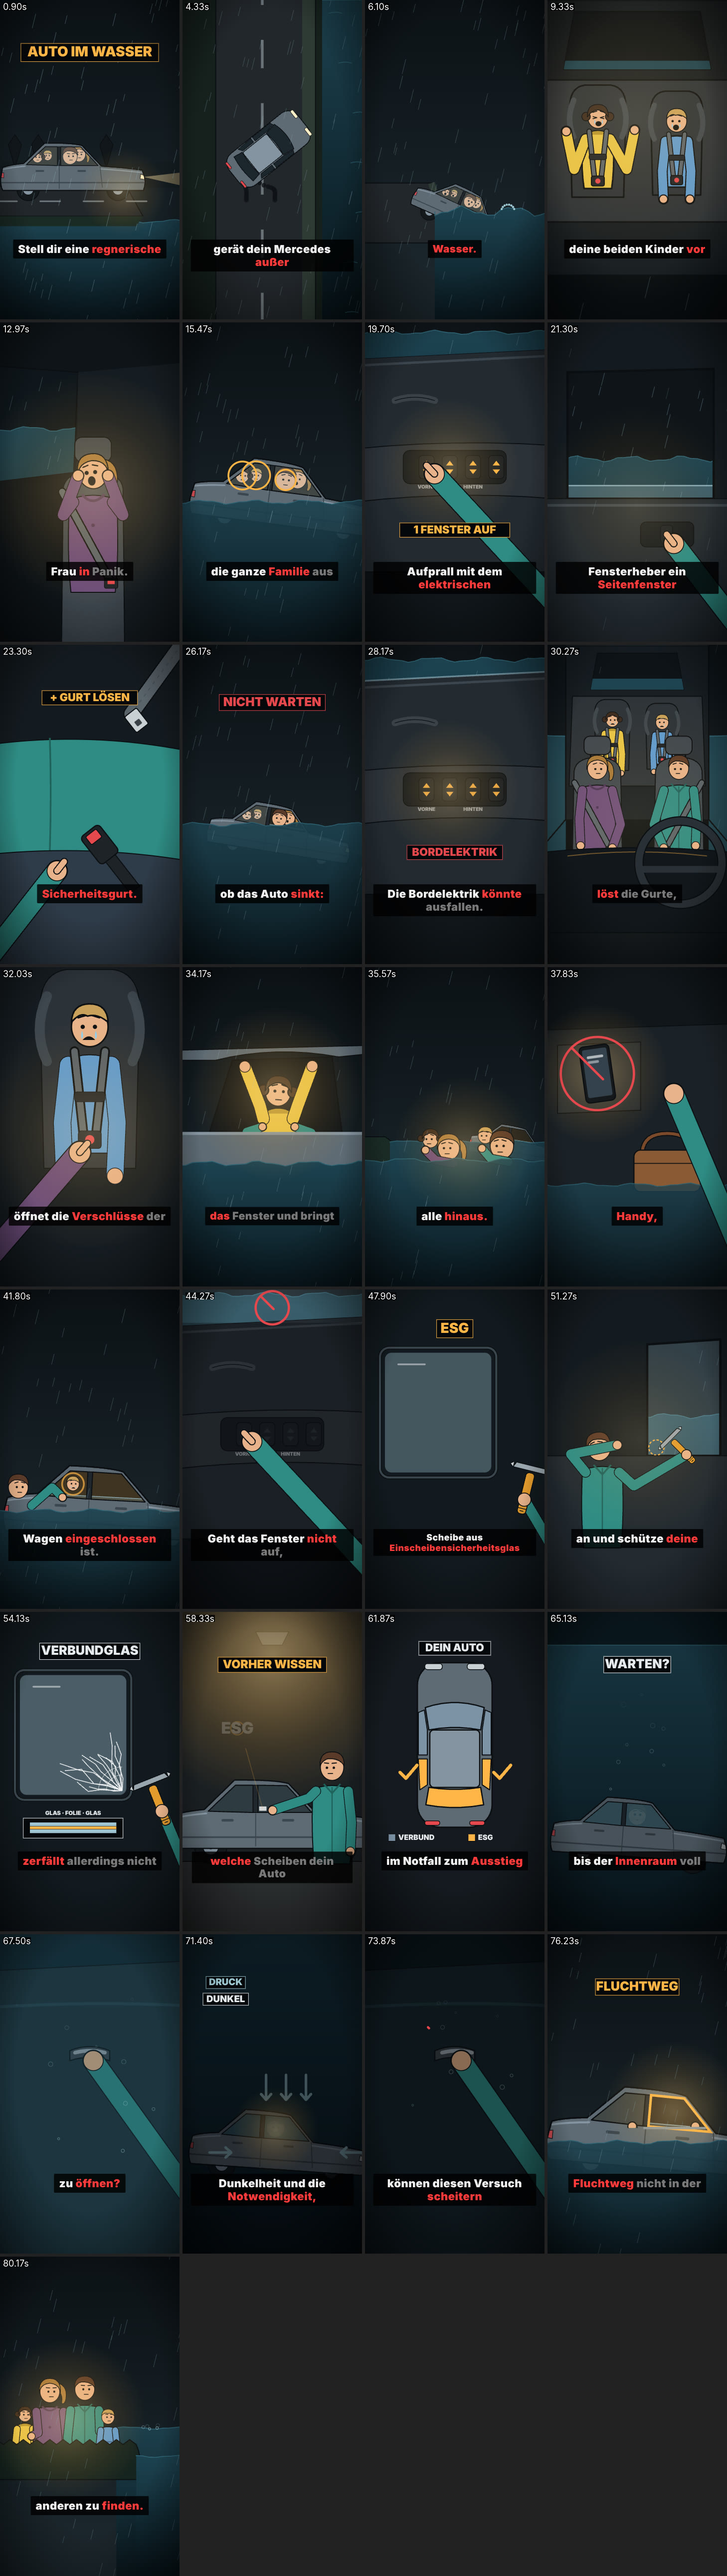
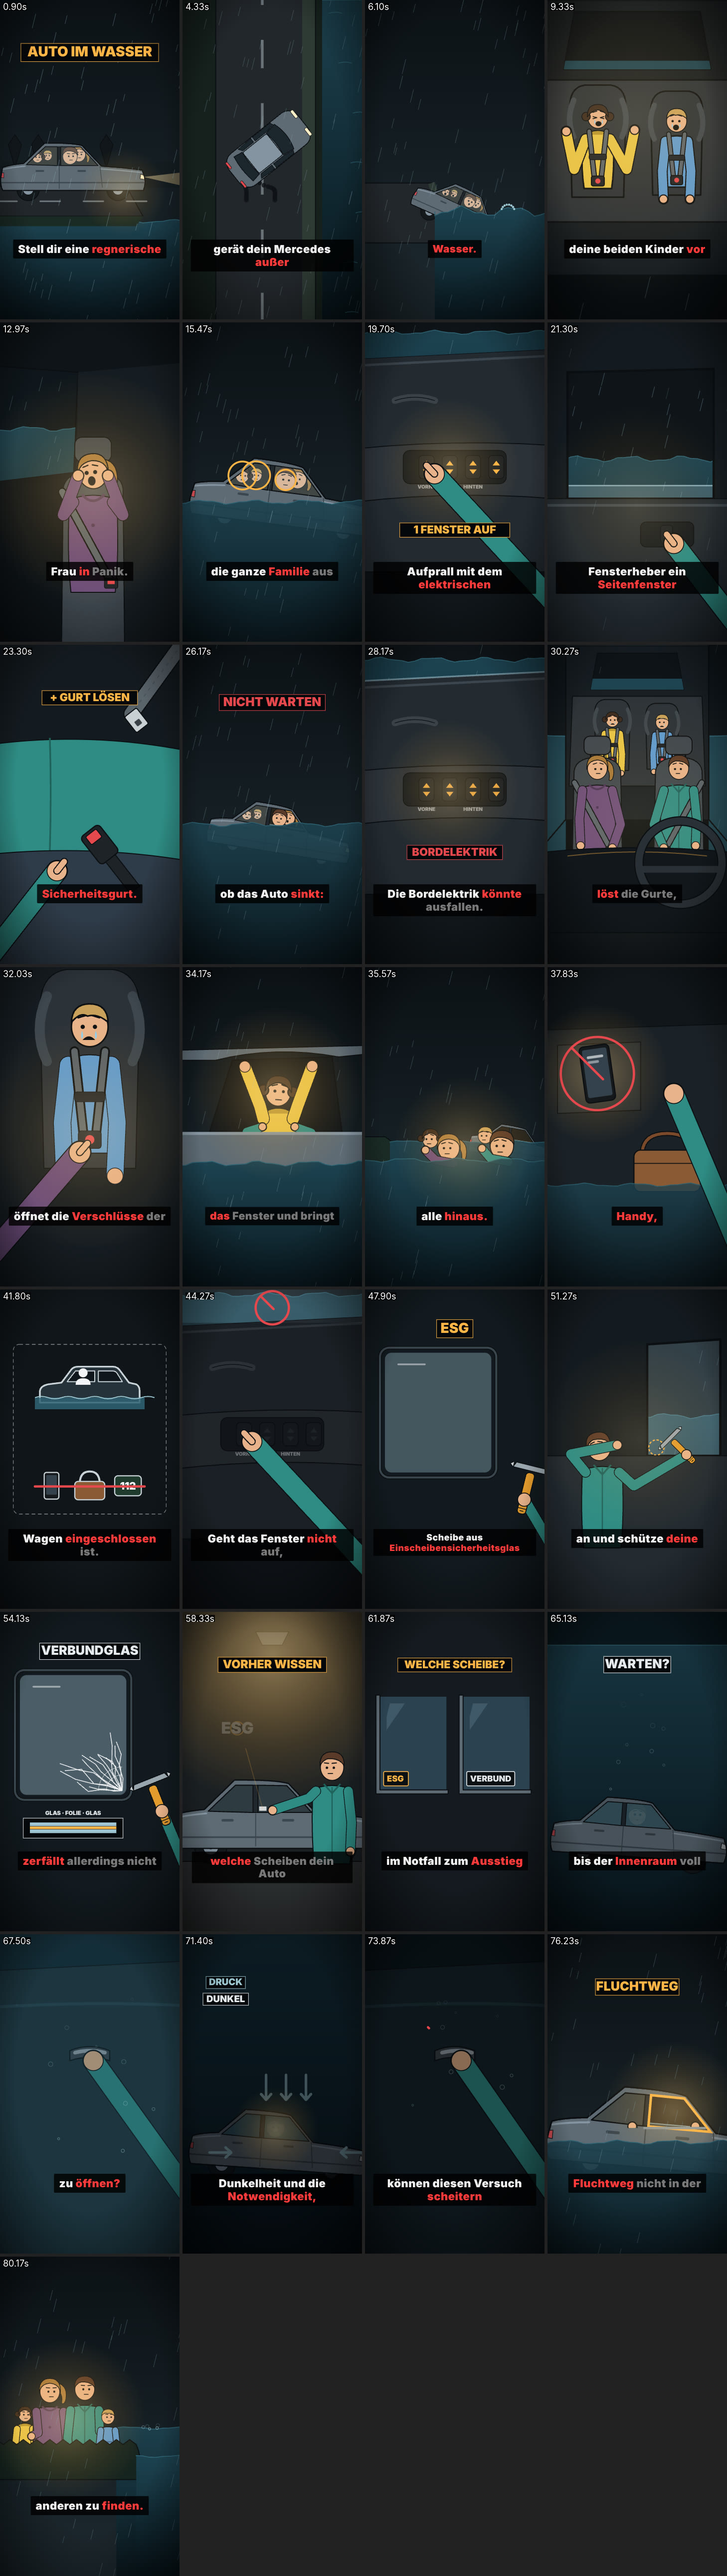
[v70] revision V70-01/V70-02: rule pictogram for trapped-person priority, glass-marking close-up instead of fixed car diagram (Claude Code nightly)
Claude-Session: https://claude.ai/code/session_01BnQDwpikUK4im6fW4u5mzb

Changed region(s): [[0.4938, 0.6238, 0.7407, 0.7174], [0.0, 0.5302, 0.2469, 0.6238]]

diff --git a/src/videos/v70/shots/017.js b/src/videos/v70/shots/017.js
@@ -1,20 +1,39 @@
-// 40.26–43.28: as long as someone is still trapped in the car: Ben is still in the back seat behind the window — he is ringed, your arm reaches in for him ("eingeschlossen")
-import { K, DEFS, BG, carSide, arm, headOf, water, rain, label, f1, prog, eio, eout, lerp } from './lib.js';
-export default function renderShot(t) {
-  const reach = eio(prog(t, 41.0, 42.2)), rg = eout(prog(t, 41.7, 42.0));
-  const s = 1.25, cx = 640, cy = 1560;
-  // Ben's head in the rear window: car coords (-170, -292) -> screen
-  const bx = cx + -170 * s, by = cy + -292 * s;
-  const over = `<circle cx="-170" cy="-292" r="${f1(70 * rg + 1)}" fill="none" stroke="${K.amber}" stroke-width="8" opacity="${f1(rg)}"/>`;
-  const faces = { kidB: { look: .6, lookY: -.3, brow: 1, mouth: 'cry', tears: 1 } };
-  const sc = `${BG('url(#eSky)')}
-    ${carSide(t, cx, cy, s, { tilt: 3, lights: 0, inner: .9, winF: 1, winR: 1, id: 's17c', faces, over, only: ['kidB'] })}
-    ${headOf_you(t, reach, bx, by)}
-    ${water(t, 1330, { amp: 10, alpha: .93 })}${rain(t, .9, 60)}`;
-  return `${DEFS}${sc}`;
+// 40.26–43.28: "solange noch jemand im Wagen eingeschlossen ist" — a rule pictogram (not the story's family): a generic person icon trapped in a car icon is priority 1; the phone/bag/112 icons from the previous shot drop to priority 2
+import { K, DEFS, BG, TX, f1, prog, eio, eout, lerp } from './lib.js';
+const ICON = '#C9D3D8';
+function carIcon(x, y, p) {
+  // flat outline car half in water, rule-card style
+  return `<g transform="translate(${f1(x)} ${f1(y)}) scale(${(.85 + .15 * p).toFixed(3)})" opacity="${f1(p)}">
+    <path d="M -300 40 L -300 -30 Q -296 -60 -250 -70 L -170 -80 L -110 -160 Q -96 -176 -70 -176 L 140 -176 Q 168 -176 184 -150 L 236 -80 L 280 -70 Q 300 -60 300 -30 L 300 40 Z" fill="#26323A" stroke="${ICON}" stroke-width="10" stroke-linejoin="round"/>
+    <path d="M -86 -150 L 30 -150 L 30 -86 L -136 -86 Z" fill="#0F171C" stroke="${ICON}" stroke-width="6" stroke-linejoin="round"/>
+    <path d="M 52 -150 L 140 -150 Q 156 -150 166 -134 L 196 -86 L 52 -86 Z" fill="#0F171C" stroke="${ICON}" stroke-width="6" stroke-linejoin="round"/>
+    <rect x="-330" y="10" width="660" height="70" fill="${K.waterL}" opacity=".85"/>
+    <path d="M -330 10 q 40 -14 80 0 t 80 0 t 80 0 t 80 0 t 80 0 t 80 0 t 80 0 t 80 0 t 80 0" fill="none" stroke="${K.foam}" stroke-width="6"/></g>`;
 }
-// you, outside the car beside the rear window, reaching in for Ben
-function headOf_you(t, reach, bx, by) {
-  const hx = 110, hy = 1190 + 4 * Math.sin(t * 3);
-  return `${arm([hx + 80, hy + 110], [lerp(hx + 170, hx + 210, reach), lerp(hy + 60, hy - 10, reach)], [lerp(hx + 200, bx - 40, reach), lerp(hy + 30, by + 60, reach)], 1.1, K.you)}${headOf('you', hx, hy, 1.1, { look: 1, lookY: -.2, brow: .8, mouth: 'flat' })}`;
+function person(x, y, s, a) {
+  return a <= .01 ? '' : `<g opacity="${f1(a)}"><circle cx="${f1(x)}" cy="${f1(y - 26 * s)}" r="${f1(18 * s)}" fill="${K.white}"/><path d="M ${f1(x - 30 * s)} ${f1(y + 22 * s)} Q ${f1(x - 30 * s)} ${f1(y - 4 * s)} ${f1(x)} ${f1(y - 4 * s)} Q ${f1(x + 30 * s)} ${f1(y - 4 * s)} ${f1(x + 30 * s)} ${f1(y + 22 * s)} Z" fill="${K.white}"/></g>`;
+}
+const badge = (x, y, n, col, a) => a <= .01 ? '' : `<g opacity="${f1(a)}"><circle cx="${x}" cy="${y}" r="56" fill="${col}" stroke="${K.ink}" stroke-width="6"/>${TX(n, x, y + 24, 70, K.ink)}</g>`;
+function items(x, y, a, dim) {
+  const ph = `<g transform="translate(${x - 230} ${y})"><rect x="-44" y="-80" width="88" height="160" rx="14" fill="#15191C" stroke="${ICON}" stroke-width="7"/><rect x="-32" y="-64" width="64" height="118" rx="6" fill="#33424C"/></g>`;
+  const bag = `<g transform="translate(${x} ${y + 10})"><path d="M -60 -30 Q -56 -96 0 -96 Q 56 -96 60 -30" fill="none" stroke="${ICON}" stroke-width="12"/><rect x="-90" y="-36" width="180" height="110" rx="20" fill="#8A5A34" stroke="${ICON}" stroke-width="7"/></g>`;
+  const call = `<g transform="translate(${x + 230} ${y})"><rect x="-80" y="-60" width="160" height="120" rx="20" fill="#1F3B2E" stroke="${ICON}" stroke-width="7"/>${TX('112', 0, 22, 62, K.white)}</g>`;
+  return `<g opacity="${f1(a * (1 - .55 * dim))}">${ph}${bag}${call}<path d="M ${x - 330} ${y + 4} L ${x + 330} ${y + 4}" stroke="${K.red}" stroke-width="14" stroke-linecap="round"/></g>`;
+}
+export default function renderShot(t) {
+  const car = eout(prog(t, 40.3, 40.75)), who = eout(prog(t, 40.86, 41.12));
+  const ring = eout(prog(t, 41.8, 42.15)), dim = eio(prog(t, 42.1, 42.6));
+  // the struck-out items start where shot 16 left them (upper half) and settle below as priority 2
+  const drop = eio(prog(t, 40.26, 40.9));
+  const iy = lerp(760, 1180, drop), is = lerp(1.25, 1, drop);
+  const cx = 540, cy = 640;
+  const pulse = ring > 0 ? 1 + .04 * Math.sin((t - 41.8) * 9) * (1 - prog(t, 42.4, 43.0)) : 1;
+  const frame = `<rect x="80" y="330" width="920" height="1020" rx="36" fill="#0E1418" stroke="${K.mono}" stroke-width="4" stroke-dasharray="22 16" opacity=".55"/>`;
+  return `${DEFS}${BG('#10161A')}${frame}
+    ${carIcon(cx, cy, car)}
+    ${person(cx - 40, cy - 100, 1.5, who)}
+    ${ring > 0 ? `<circle cx="${cx - 40}" cy="${cy - 118}" r="${f1(92 * pulse * ring)}" fill="none" stroke="${K.amber}" stroke-width="10" opacity="${f1(ring)}"/>` : ''}
+    ${badge(190, 470, '1', K.amber, ring)}
+    <g transform="translate(540 ${f1(iy)}) scale(${is.toFixed(3)}) translate(-540 ${f1(-iy)})">${items(540, iy, 1, dim)}</g>
+    ${badge(190, 1060, '2', '#7C8A92', dim)}`;
 }

diff --git a/src/videos/v70/shots/023.js b/src/videos/v70/shots/023.js
@@ -1,16 +1,45 @@
-// 59.48–63.48: your car from above — which panes are laminated (windscreen, here also the front side windows) and which toughened side windows you can break to get out ("einschlagen")
-import { K, DEFS, BG, carTop, label, tick, crossOut, TX, f1, prog, eio, eout, lerp } from './lib.js';
+// 59.48–63.48: know which panes your car has — close-up of the small marking in a pane corner; two examples side by side: ESG shatters into granules (tick, "einschlagen"), Verbundglas only cracks (cross). No fixed position diagram: the viewer checks their own car.
+import { K, DEFS, BG, label, tick, crossOut, TX, f1, prog, eio, eout, lerp, hash } from './lib.js';
+function pane(x, y, txt, col, a, mode, p) {
+  // a pane corner: frame on left & bottom, glass fills the panel; marking sticker in the lower-left corner
+  const w = 400, h = 560, x0 = x - w / 2, y0 = y - h / 2;
+  let glass = `<rect x="${x0}" y="${y0}" width="${w}" height="${h}" fill="#2B4250"/><path d="M ${x0 + 60} ${y0 + 40} L ${x0 + 150} ${y0 + 40} L ${x0 + 40} ${y0 + 200} L ${x0 + 40} ${y0 + 120} Z" fill="${K.glassL}" opacity=".18"/>`;
+  if (mode === 'esg' && p > 0) {
+    // granules: the pane falls apart into small cubes that drop
+    let g = '';
+    for (let i = 0; i < 10; i++) for (let j = 0; j < 14; j++) {
+      const r = hash(i * 31 + j * 7);
+      const dy = p * p * (120 + 380 * r), dx = p * (r - .5) * 60;
+      g += `<rect x="${f1(x0 + 6 + i * 39 + dx)}" y="${f1(y0 + 6 + j * 39 + dy)}" width="30" height="30" rx="5" fill="#3E5A6A" stroke="${K.glassL}" stroke-width="2" opacity="${f1(1 - .7 * p)}"/>`;
+    }
+    glass = `<g clip-path="url(#c23${txt})">${g}</g>`;
+  }
+  let crack = '';
+  if (mode === 'vsg' && p > 0) {
+    const ox = x + 40, oy = y - 60;
+    for (let k = 0; k < 9; k++) {
+      const an = k / 9 * Math.PI * 2 + .3, L = 260 * p;
+      crack += `<path d="M ${ox} ${oy} L ${f1(ox + Math.cos(an) * L * .5 + 14 * Math.sin(k))} ${f1(oy + Math.sin(an) * L * .5)} L ${f1(ox + Math.cos(an) * L)} ${f1(oy + Math.sin(an) * L)}" fill="none" stroke="${K.white}" stroke-width="4" opacity=".85"/>`;
+    }
+    for (const rr of [50, 110]) crack += `<circle cx="${ox}" cy="${oy}" r="${f1(rr * p)}" fill="none" stroke="${K.white}" stroke-width="3" opacity=".7" stroke-dasharray="26 14"/>`;
+    crack = `<g clip-path="url(#c23${txt})">${crack}</g>`;
+  }
+  return `<g opacity="${f1(a)}"><defs><clipPath id="c23${txt}"><rect x="${x0}" y="${y0}" width="${w}" height="${h}"/></clipPath></defs>
+    <rect x="${x0}" y="${y0}" width="${w}" height="${h}" fill="#0E1418"/>${glass}${crack}
+    <path d="M ${x0 - 24} ${y0 - 10} L ${x0 - 24} ${y0 + h + 24} L ${x0 + w + 10} ${y0 + h + 24} L ${x0 + w + 10} ${y0 + h} L ${x0} ${y0 + h} L ${x0} ${y0 - 10} Z" fill="${K.car}" stroke="${K.ink}" stroke-width="6" stroke-linejoin="round"/>
+    <rect x="${x0 + 22}" y="${y0 + h - 110}" width="${f1(txt.length * 35 + 44)}" height="86" rx="8" fill="#0B1013" stroke="${col}" stroke-width="5"/>
+    ${TX(txt, x0 + 42, y0 + h - 50, 50, col, 'start')}</g>`;
+}
 export default function renderShot(t) {
-  const v = eout(prog(t, 59.7, 60.1)), e = eout(prog(t, 61.9, 62.3));
-  const VB = '#7C93A6', ES = K.amber;
-  const win = { ws: v > .5 ? VB : undefined, fl: v > .5 ? VB : undefined, fr: v > .5 ? VB : undefined, rl: v > .5 ? ES : undefined, rr: v > .5 ? ES : undefined, rw: v > .5 ? ES : undefined };
-  const s = 1.5, x = 540, y = 800;
-  const legend = `<g opacity="${f1(v)}"><rect x="140" y="1335" width="44" height="44" fill="${VB}" stroke="${K.ink}" stroke-width="4"/>${TX('VERBUND', 200, 1371, 44, K.mono, 'start')}
-    <rect x="620" y="1335" width="44" height="44" fill="${ES}" stroke="${K.ink}" stroke-width="4"/>${TX('ESG', 680, 1371, 44, K.mono, 'start')}</g>`;
-  // rear side windows (car coords ±128, 110) -> screen
-  const rl = [x - 128 * s, y + 110 * s], rr = [x + 128 * s, y + 110 * s];
-  return `${DEFS}${BG('#141A1F')}${carTop(x, y, s, 0, { win })}${legend}
-    ${tick(rl[0] - 90, rl[1], 1.2, eout(prog(t, 60.8, 61.2)))}${tick(rr[0] + 90, rr[1], 1.2, eout(prog(t, 61.4, 61.8)))}
-    ${crossOut(x, y - 175 * s - 10, 80, e)}
-    ${label(540, 230, 'DEIN AUTO', 1, K.mono, 64)}`;
+  const hd = eout(prog(t, 59.3, 59.6));
+  const aL = eout(prog(t, 59.48, 59.8)), aR = eout(prog(t, 60.14, 60.5));
+  const hit = prog(t, 62.02, 62.9), crack = eout(prog(t, 62.1, 62.5));
+  const ringL = eout(prog(t, 59.8, 60.1)) * (1 - prog(t, 61.4, 61.8)), ringR = eout(prog(t, 60.3, 60.6)) * (1 - prog(t, 61.4, 61.8));
+  const lx = 290, rx = 790, py = 790;
+  // highlight around the marking sticker (sticker: x0+22, width len*35+44, y py+170..256)
+  const ring = (x, n, a) => a <= .01 ? '' : `<rect x="${x - 200 + 8}" y="${py + 156}" width="${n * 35 + 72}" height="114" rx="16" fill="none" stroke="${K.amber}" stroke-width="7" opacity="${f1(a)}"/>`;
+  return `${DEFS}${BG('#141A1F')}${label(540, 330, 'WELCHE SCHEIBE?', hd, K.amber, 64)}
+    ${pane(lx, py, 'ESG', K.amber, aL, 'esg', hit)}${pane(rx, py, 'VERBUND', K.mono, aR, 'vsg', crack)}
+    ${ring(lx, 3, ringL)}${ring(rx, 7, ringR)}
+    ${tick(lx, 1190, 1.4, eout(prog(t, 62.1, 62.45)))}${crossOut(rx, 1190, 70, eout(prog(t, 62.35, 62.7)))}`;
 }

diff --git a/prompts/lessons.md b/prompts/lessons.md
@@ -9,7 +9,8 @@ This file records past mistakes and their prevention. Do not duplicate the full 
 - Check support and contact in motion: feet on the floor, body on the seat, hands on their target; no floating props or limbs crossing through objects.
 - Keep the subtitle area readable on every background; light/busy scenes need the subtitle box (v31: white text vanished on cream and over a basket).
 - Time counters to the spoken word; compute related values together so they agree (v30: fold count/thickness; v31: area).
-- Do not invent factual names, dates or quantities (v31: invented towns). Neutral set dressing is allowed when it does not imply an unsupported fact.
+- Do not invent factual names, dates or quantities (v31: invented towns), nor assign a generic fact to the viewer's own object (v70: which panes of "your car" are ESG). Neutral set dressing is allowed when it does not imply an unsupported fact.
+- Story state never resets: once a character has escaped/finished, a later conditional line ("as long as someone is still trapped") is shown as a clearly separate rule card/pictogram, not by putting that character back (v70).
 - Cards, boards and screens appear with their content; no empty containers or repeated tableau carrying unrelated lines (v42).
 - Frame zero must reveal the topic at phone size; a dark scene still needs a clear focal point — in night videos every shot keeps a lit, phone-sized subject (a person doing the action, not abstract dots or arcs), and no shot breaks the video's tone with a full-frame flat colour. Repeated title cards (e.g. REGEL n) share one size, position and backdrop style (v60). Use the canonical opening rules instead of a decorative flash/zoom.
 - Use the canonical pacing targets; compare progression rather than merely counting cuts. Repeated crops, dust or idle loops do not fix a static scene.
